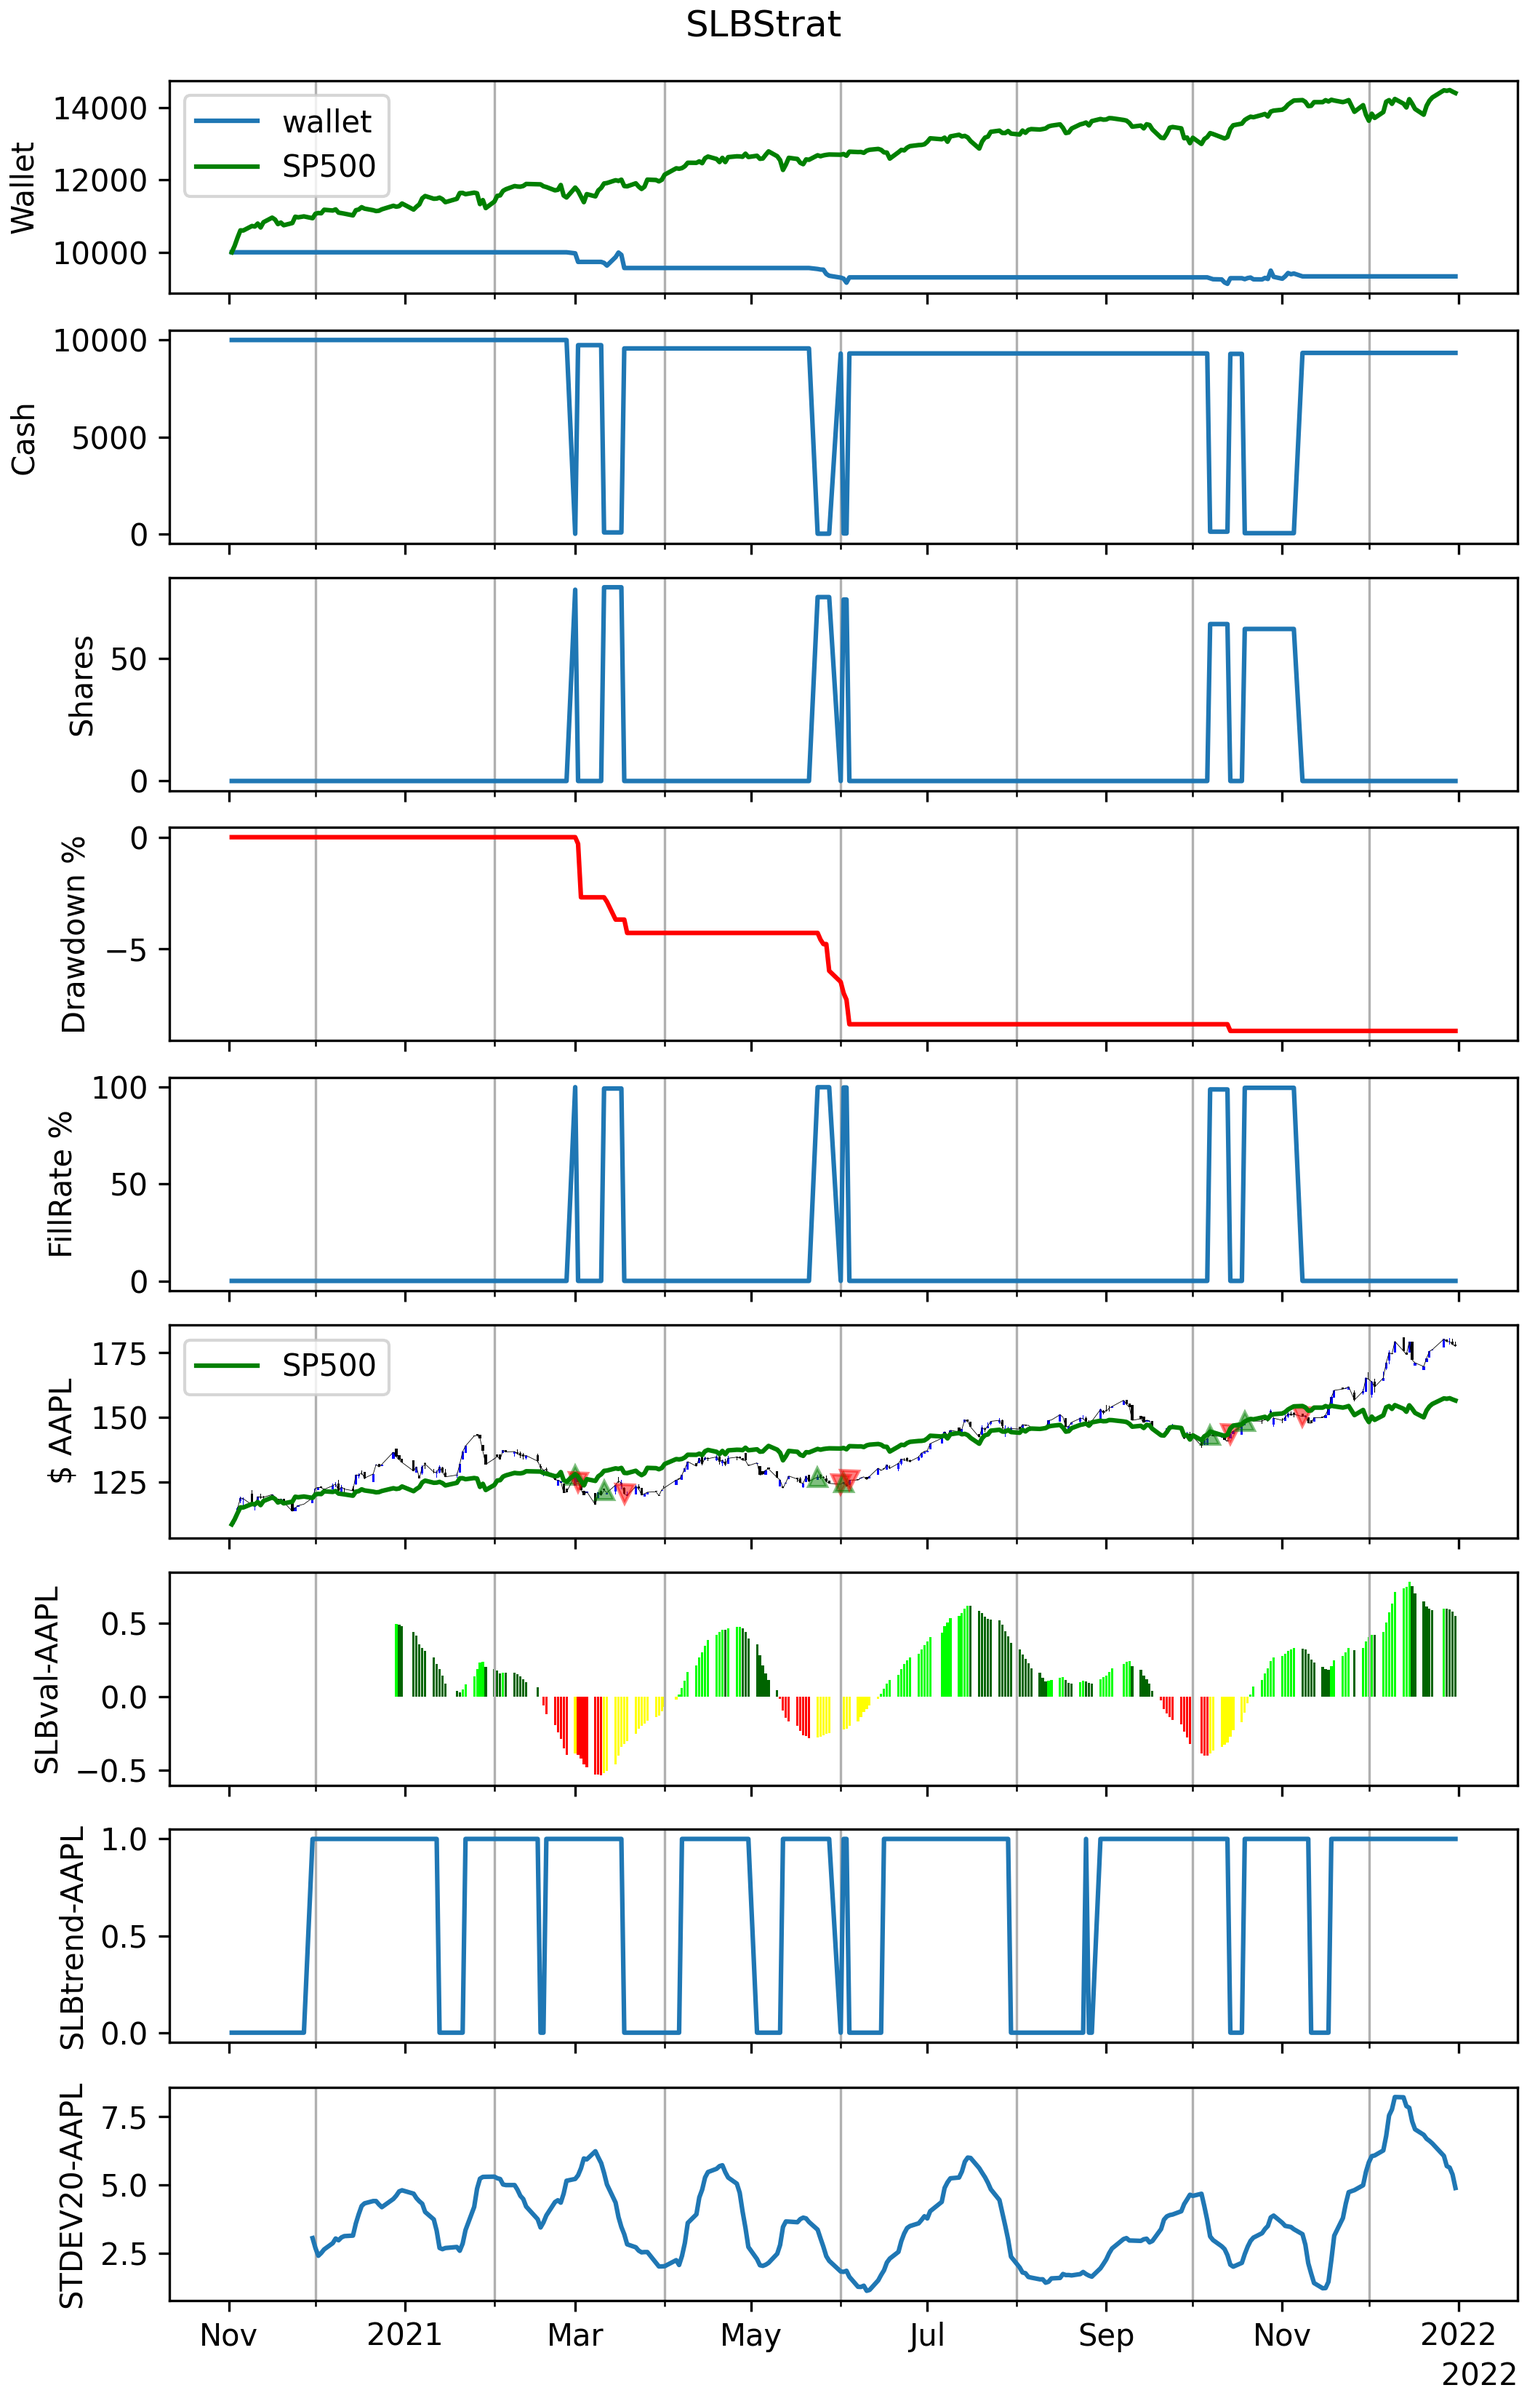
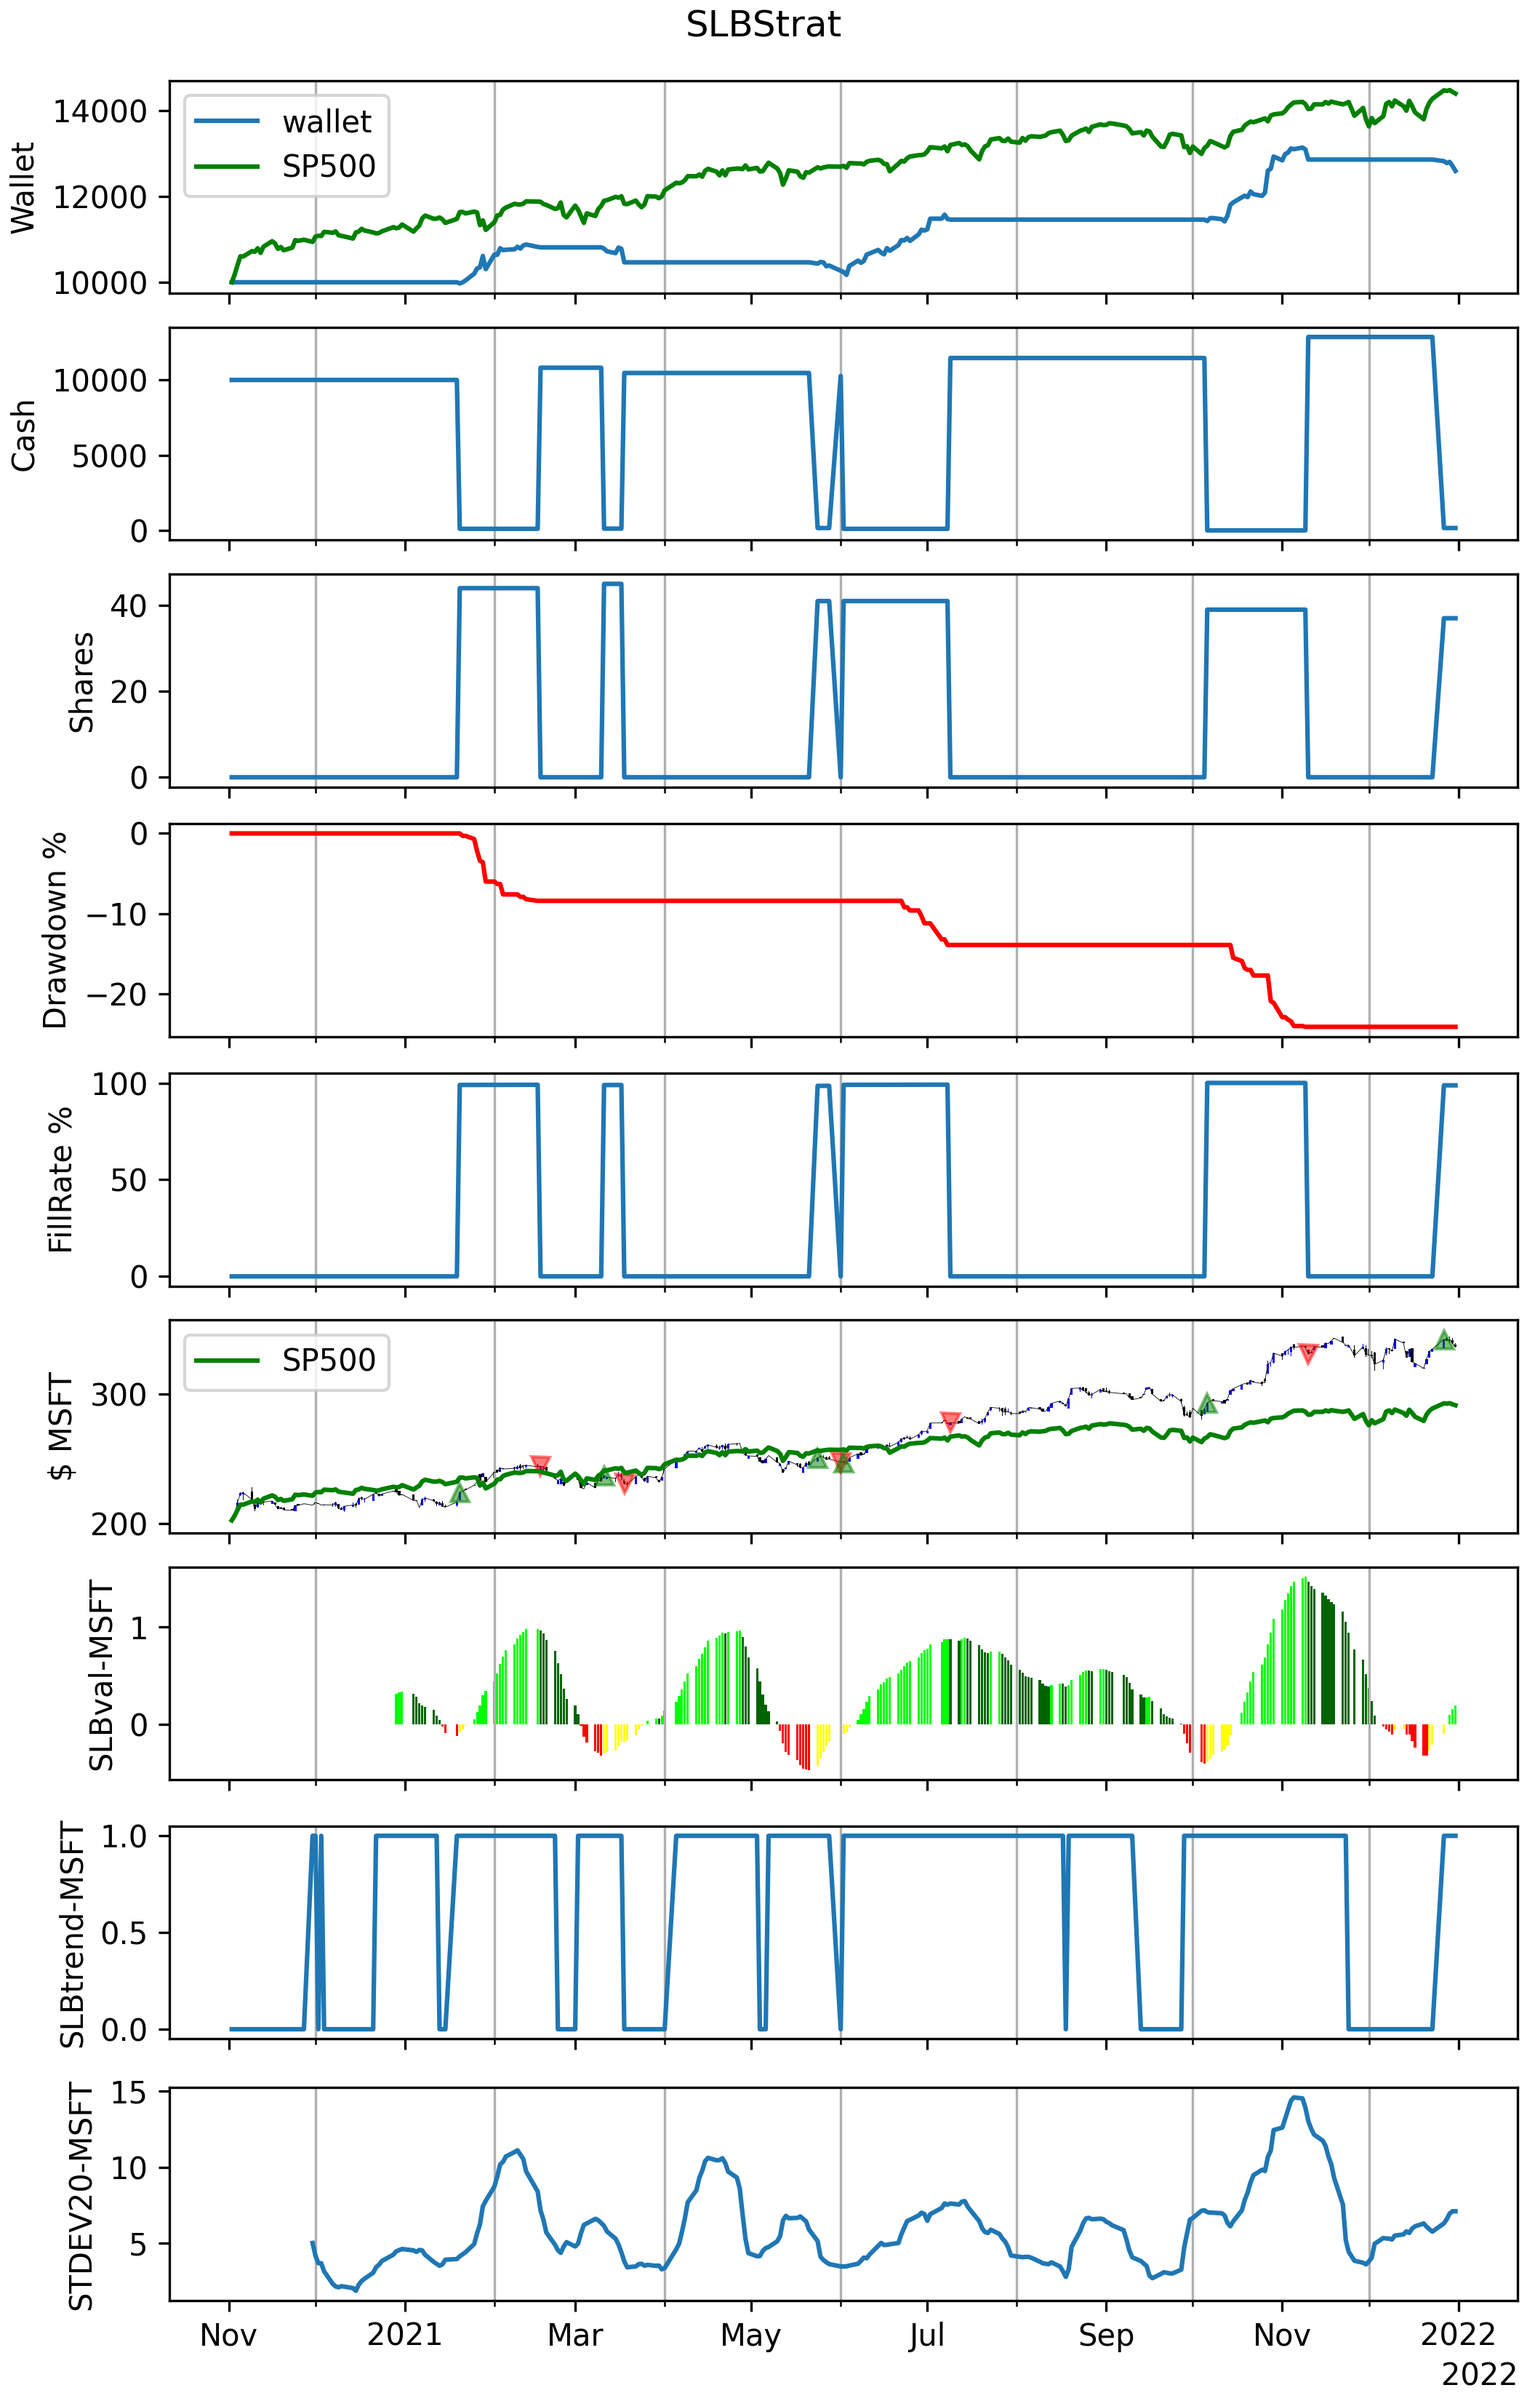
a better .png

diff --git a/run.py b/run.py
@@ -11,7 +11,7 @@ tickers = [
     'AAPL',
     'MSFT',
 ]
-INITIAL_CASH = 10000
+INITIAL_CASH = 1000
 CASH_PER_TRADE = 0. # proportionally
 START_DATE = '2020-11-01'
 END_DATE = '2021-12-31'

diff --git a/README.md b/README.md
@@ -1,1 +1,3 @@
-# multitrader
+# Multitrader
+
+![alt text](https://github.com/kulasinski/multitrader/blob/main/plot.png?raw=true)
